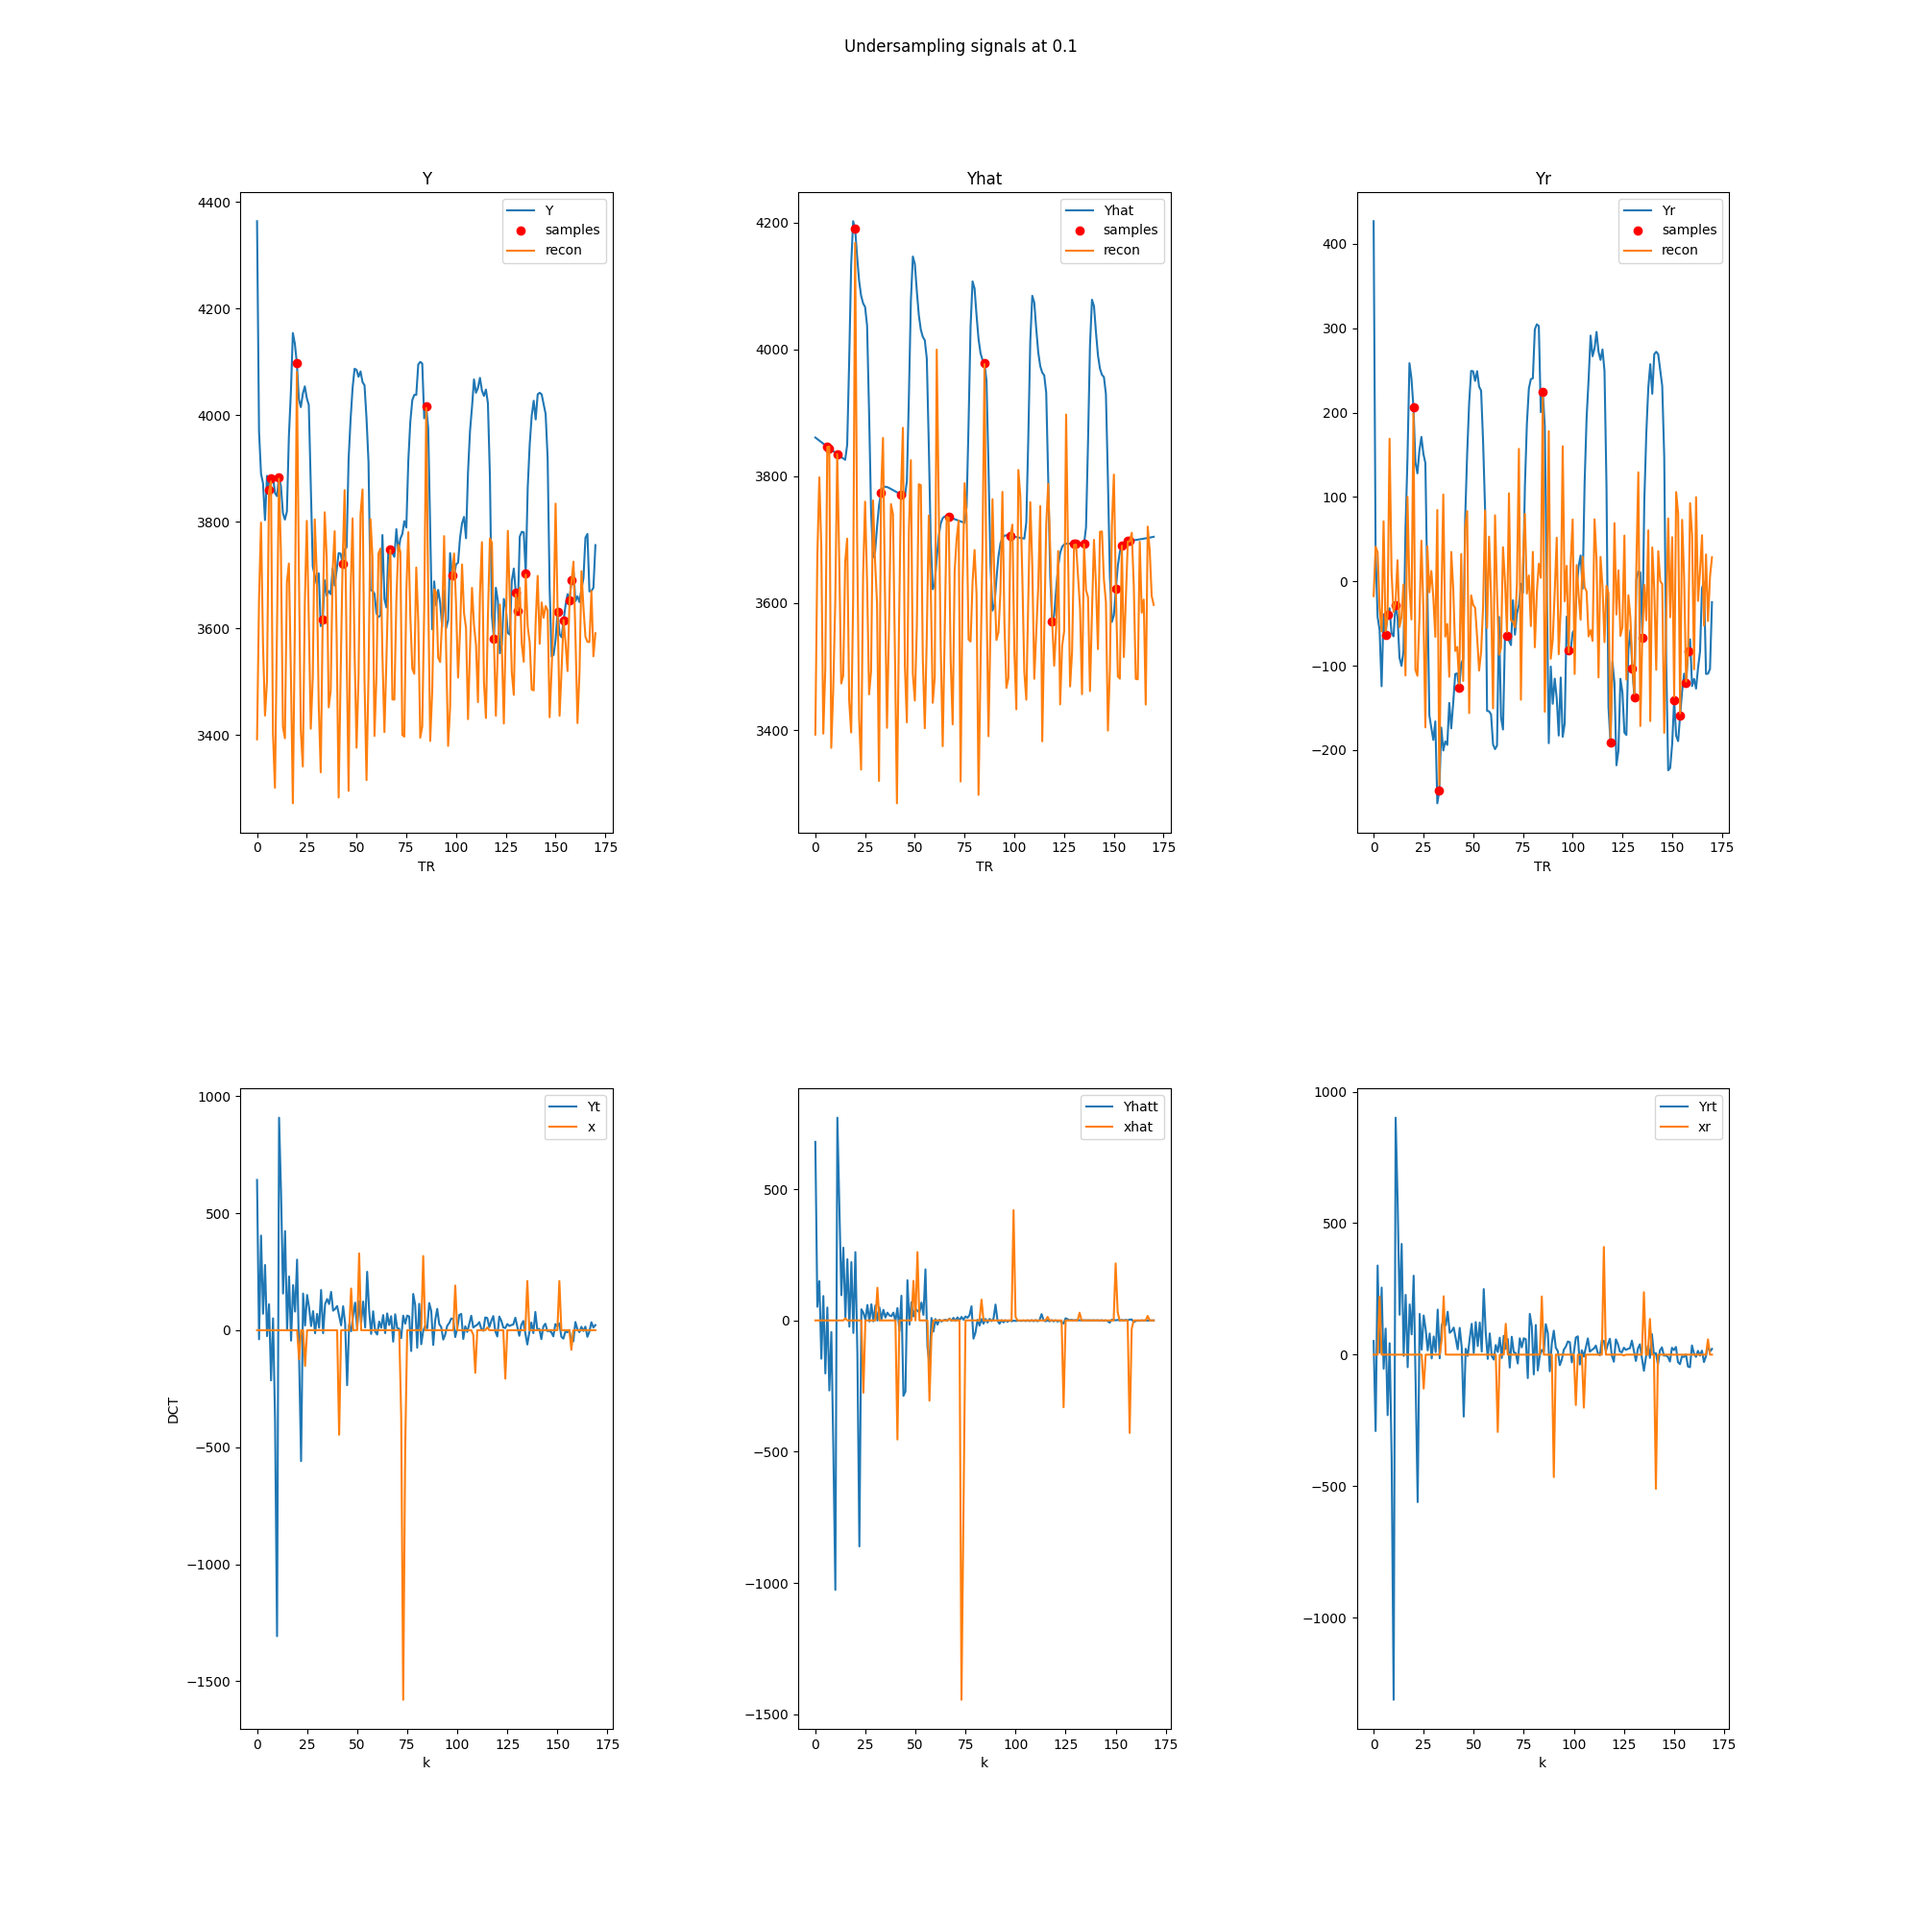
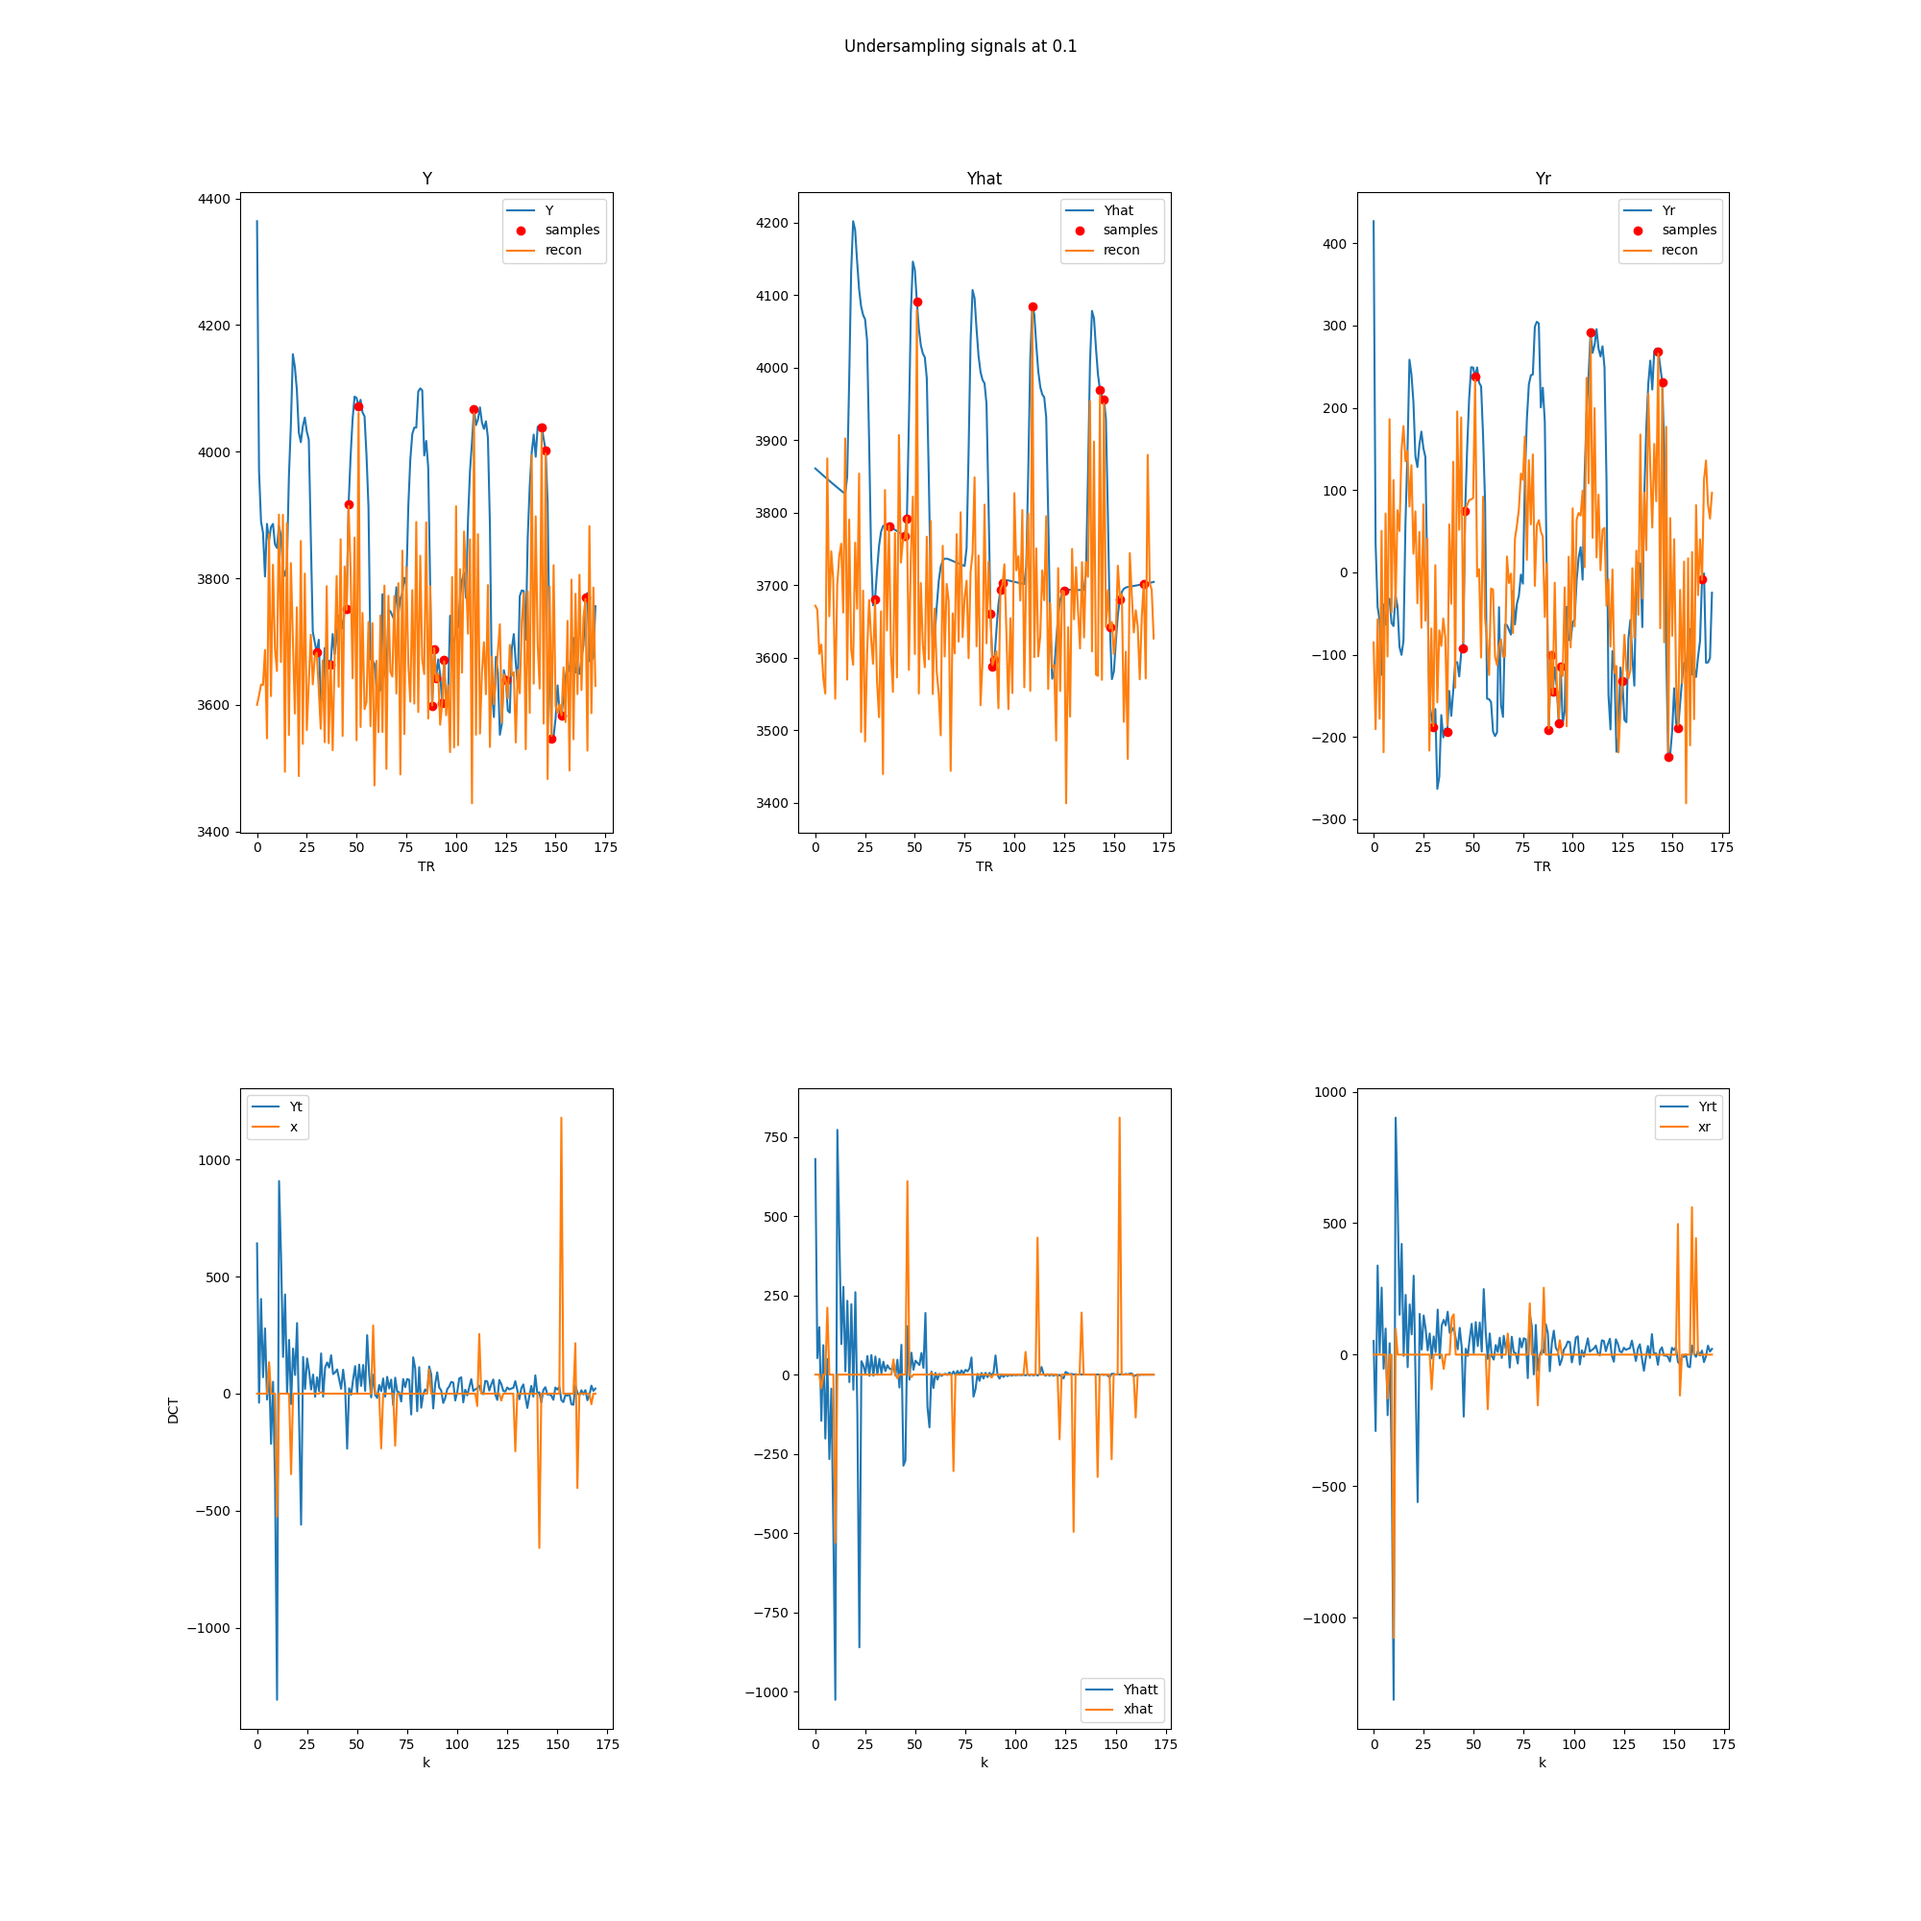
future: bsbl + learning

diff --git a/optCSfMRI-TS.py b/optCSfMRI-TS.py
@@ -6,7 +6,9 @@ Optimization-based compressed sensing of fMRI time series.
 """
 
 import matplotlib.pyplot as plt
+import numpy as np
 import scipy.stats as spstat
+from scipy.signal.windows import dpss
 import pandas as pd
 import nibabel as nb
 import argparse
@@ -14,6 +16,8 @@ from lbfgs import fmin_lbfgs as owlqn
 from util import *
 
 from util.opt import f_owlqn, progress, CS_L1_opt
+
+from pyBSBL import bsbl
 
 
 def get_args():
@@ -29,11 +33,12 @@ def get_args():
 
     parser.add_argument('--method', '-m', type=str, default='convex',
                         help='optimization method [convex | owlqn | bsbl]. default=convex')
+    parser.add_argument('--block', '-b', type=int, default=30, help='block length for BSBL')
 
     return parser.parse_args()
 
 
-def optCSfMRI_TS(ffmri, ftask, method='convex', slice=10, verbose=False):
+def optCSfMRI_TS(ffmri, ftask, method='convex', slice=10, block=30, verbose=False):
     """
     Compressed sensing a voxel time series via L1 minimization through convex optimization.
 
@@ -263,6 +268,10 @@ def optCSfMRI_TS(ffmri, ftask, method='convex', slice=10, verbose=False):
             x = CS_L1_opt(M, y1, verbose=verbose)
             xhat = CS_L1_opt(M, yhat1, verbose=verbose)
             xr = CS_L1_opt(M, yr1, verbose=verbose)
+
+            sig = spfft.idct(x, norm='ortho', axis=0)  # fully-sampled inverse cosine transform of input
+            sighat = spfft.idct(xhat, norm='ortho', axis=0)
+            sigr = spfft.idct(xr, norm='ortho', axis=0)
         elif method.lower() == 'owlqn':
             x = owlqn(f_owlqn, y, progress=progress, orthantwise_c=5,
                          line_search='wolfe', args=(y1, ri))
@@ -270,12 +279,31 @@ def optCSfMRI_TS(ffmri, ftask, method='convex', slice=10, verbose=False):
                       line_search='wolfe', args=(yhat1, ri))
             xr = owlqn(f_owlqn, yr, progress=progress, orthantwise_c=5,
                       line_search='wolfe', args=(yr1, ri))
+
+            sig = spfft.idct(x, norm='ortho', axis=0)  # fully-sampled inverse cosine transform of input
+            sighat = spfft.idct(xhat, norm='ortho', axis=0)
+            sigr = spfft.idct(xr, norm='ortho', axis=0)
+        elif method.lower() == 'bsbl':
+            Phi = np.diag(dpss(N, 8.5))
+            blk_start_loc = np.arange(0, N, block)
+
+            clf = bsbl.bo(
+                learn_lambda=1,
+                learn_type=1,
+                lambda_init=1e-3,
+                epsilon=1e-5,
+                max_iters=100,
+                verbose=1,
+            )
+            x = clf.fit_transform(Phi, y1, blk_start_loc)
+            xhat = clf.fit_transform(Phi, yhat1, blk_start_loc)
+            xr = clf.fit_transform(Phi, yr1, blk_start_loc)
+
+            sig = spfft.idct(x, norm='ortho', axis=0)  # fully-sampled inverse cosine transform of input
+            sighat = spfft.idct(xhat, norm='ortho', axis=0)
+            sigr = spfft.idct(xr, norm='ortho', axis=0)
         else:
             raise ValueError('Unknown method: ', method)
-
-        sig = spfft.idct(x, norm='ortho', axis=0)  # fully-sampled inverse cosine transform of input
-        sighat = spfft.idct(xhat, norm='ortho', axis=0)
-        sigr = spfft.idct(xr, norm='ortho', axis=0)
 
         y_rmse = rmse(y, sig)
         yhat_rmse = rmse(yhat, sighat)
@@ -349,7 +377,7 @@ def optCSfMRI_TS(ffmri, ftask, method='convex', slice=10, verbose=False):
     plt.axvline(x=nyHRFPercent, label='%% HRF Nyquist = %.2f' % nyHRFPercent, c='c', ls='--')
     plt.axvline(x=nyRespPercent, label='%% Resp Nyquist = %.2f' % nyRespPercent, c='m', ls='--')
     plt.xlabel('Percent sampled')
-    plt.ylabel('PSNR')
+    plt.ylabel('RMSE')
     plt.legend()
     plt.subplot(122)
     plt.plot(levels, PSNRs[:, 0], label='Y')
@@ -371,7 +399,7 @@ def main(**kwargs):
 
     ###
     print('Compressed sensing time series...')
-    optCSfMRI_TS(ffmri=args.fmri, ftask=args.task, method=args.method, slice=args.slice, verbose=args.verbose)
+    optCSfMRI_TS(ffmri=args.fmri, ftask=args.task, method=args.method, slice=args.slice, block=args.block, verbose=args.verbose)
 
     return 0
 
